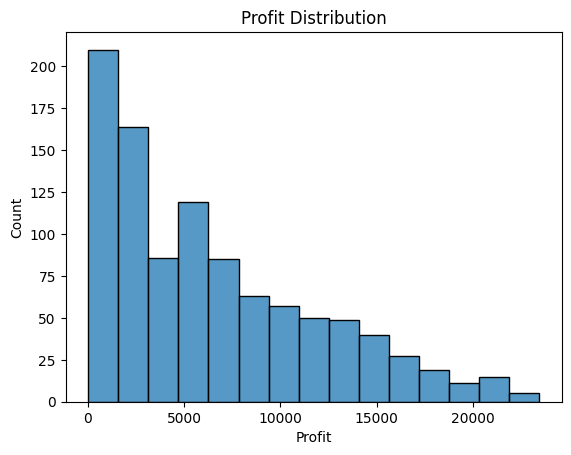
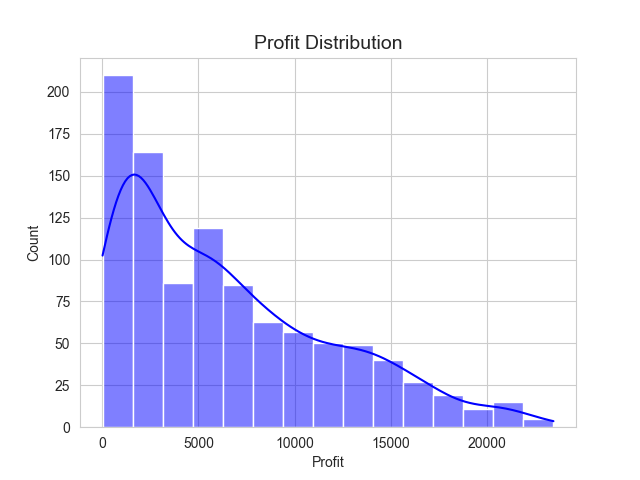
Enhanced data visualizations and added profit/loss analysis

diff --git a/Sales Data Analysis.py b/Sales Data Analysis.py
@@ -6,7 +6,7 @@ import seaborn as sns
 # =========================
 # Load Dataset
 # =========================
-df = pd.read_csv(r"D:\Sales Data Analysis\sales_data.csv")
+df = pd.read_csv("sales_data.csv")
 
 # =========================
 # Basic Data Inspection
@@ -43,10 +43,12 @@ df['Profit'] = (df['Unit_Price'] - df['Unit_Cost']) * df['Quantity_Sold']
 # Extract Month & Year
 df['Month'] = df['Sale_Date'].dt.month
 df['Year'] = df['Sale_Date'].dt.year
+df['Week'] = df['Sale_Date'].dt.isocalendar().week
 
 print(df['Profit'].head())
 print(df['Month'].head())
 print(df['Year'].head())
+print(df['Week'].head())
 
 # =========================
 # Exploratory Data Analysis (EDA)
@@ -57,39 +59,84 @@ category_sales = df.groupby('Product_Category')['Sales_Amount'].sum()
 rep_sales = df.groupby('Sales_Rep')['Sales_Amount'].sum()
 customer_sales = df.groupby('Customer_Type')['Sales_Amount'].sum()
 monthly_sales = df.groupby('Month')['Sales_Amount'].sum()
+weekly_sales = df.groupby('Week')['Sales_Amount'].sum()
+monthly_sales_full = df.groupby(['Year', 'Month'])['Sales_Amount'].sum()
 
 print(region_sales)
 print(category_sales)
 print(rep_sales)
 print(customer_sales)
 print(monthly_sales)
+print(weekly_sales)
+print(monthly_sales_full)
+
+# =========================
+# Profit & Loss Analysis
+# =========================
+
+total_profit = df[df['Profit'] > 0]['Profit'].sum()
+loss_df = df[df['Profit'] < 0]
+total_loss = loss_df['Profit'].sum()
+
+print("Total Profit:", total_profit)
+print("Total Loss:", total_loss)
 
 # =========================
 # Data Visualization
 # =========================
 
-# Sales by Region 
-region_sales.plot(kind='bar')
-plt.title("Sales by Region")
+# Set global style
+sns.set_style("whitegrid")
+
+# Sales by Region
+region_sales.plot(kind='bar', color='skyblue')
+plt.title("Sales by Region", fontsize=14)
 plt.xlabel("Region")
 plt.ylabel("Sales Amount")
-plt.savefig("images/sales_by_region.png", bbox_inches='tight')
+plt.xticks(rotation=45)
+plt.tight_layout()
+plt.savefig("images/sales_by_region.png")
 plt.show()
 
-#Product Category Sales
-sns.barplot(x=category_sales.index, y=category_sales.values)
-plt.title("Sales by Product Category")
-plt.savefig("images/category_sales.png", bbox_inches='tight')
+# Product Category Sales
+sns.barplot(x=category_sales.index, y=category_sales.values,color='yellow')
+plt.title("Sales by Product Category", fontsize=14)
+plt.xticks(rotation=45)
+plt.tight_layout()
+plt.savefig("images/category_sales.png")
 plt.show()
 
-#Monthly Trend
-monthly_sales.plot(kind='line')
-plt.title("Monthly Sales Trend")
-plt.savefig("images/monthly_trend.png", bbox_inches='tight')
+# Monthly Trend
+monthly_sales.plot(kind='line', marker='o', color='green')
+plt.title("Monthly Sales Trend", fontsize=14)
+plt.grid(True)
+plt.savefig("images/monthly_trend.png")
 plt.show()
 
-# Profit Distribution 
-sns.histplot(df['Profit'])
-plt.title("Profit Distribution")
-plt.savefig("images/profit_distribution.png", bbox_inches='tight')
+# Weekly Trend
+weekly_sales.plot(kind='line', marker='o', color='orange')
+plt.title("Weekly Sales Trend", fontsize=14)
+plt.xlabel("Week")
+plt.ylabel("Sales Amount")
+plt.grid(True)
+plt.savefig("images/weekly_sales.png")
+plt.show()
+
+# Monthly Trend (Year-Month)
+monthly_sales_full.plot(kind='line', marker='o', color='purple')
+plt.title("Monthly Sales Trend (Year-Month)", fontsize=14)
+plt.grid(True)
+plt.savefig("images/monthly_sales_full.png")
+plt.show()
+
+# Profit Distribution
+sns.histplot(df['Profit'], kde=True, color='blue')
+plt.title("Profit Distribution", fontsize=14)
+plt.savefig("images/profit_distribution.png")
+plt.show()
+
+# Profit vs Loss
+plt.bar(['Profit', 'Loss'], [total_profit, abs(total_loss)], color=['green', 'red'])
+plt.title("Profit vs Loss", fontsize=14)
+plt.savefig("images/profit_vs_loss.png")
 plt.show()
